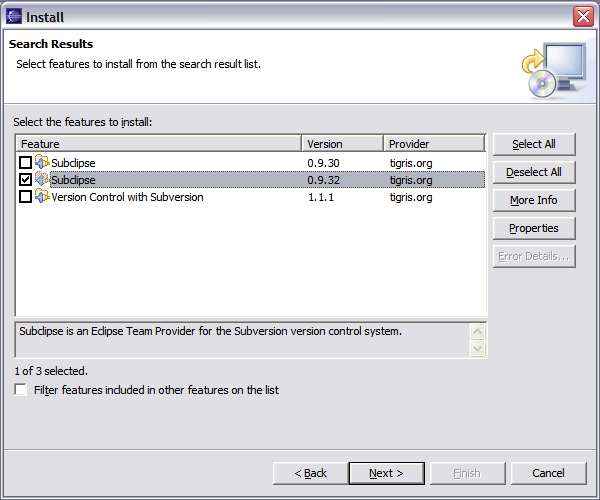
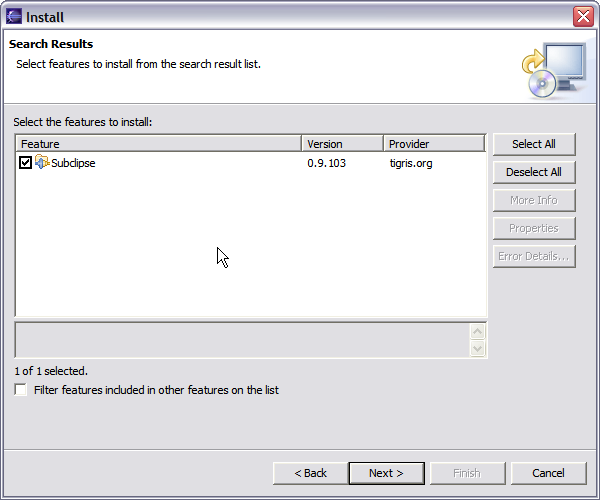
Update install instructions

diff --git a/trunk/www/install.html b/trunk/www/install.html
@@ -44,7 +44,7 @@ click the New Local Site button instead.</p>
 to install Subclipse</p>
 <pre>
     Name: Subclipse
-    URL:  http://subclipse.tigris.org/update
+    URL:  http://subclipse.tigris.org/update_1.0.x
 </pre>
 <img src="images/install-4.png" alt="Install screen" />
 
@@ -54,9 +54,7 @@ to select it before clicking Next.</p>
 <img src="images/install-5.png" alt="Install screen" />
 
 <h3>Step 6:</h3>
-<p>This next screen shows all of the features that are available to install.  Subclipse 0.9.30
-is provided for people that are not on Windows and do not have Subversion 1.2 available. Version
-Control with Subversion is a copy of the Subversion book transformed for the Eclipse help system.</p>
+<p>This next screen shows all of the features that are available to install.</p>
 <img src="images/install-6.png" alt="Install screen" />
 
 <h3>Step 7:</h3>
